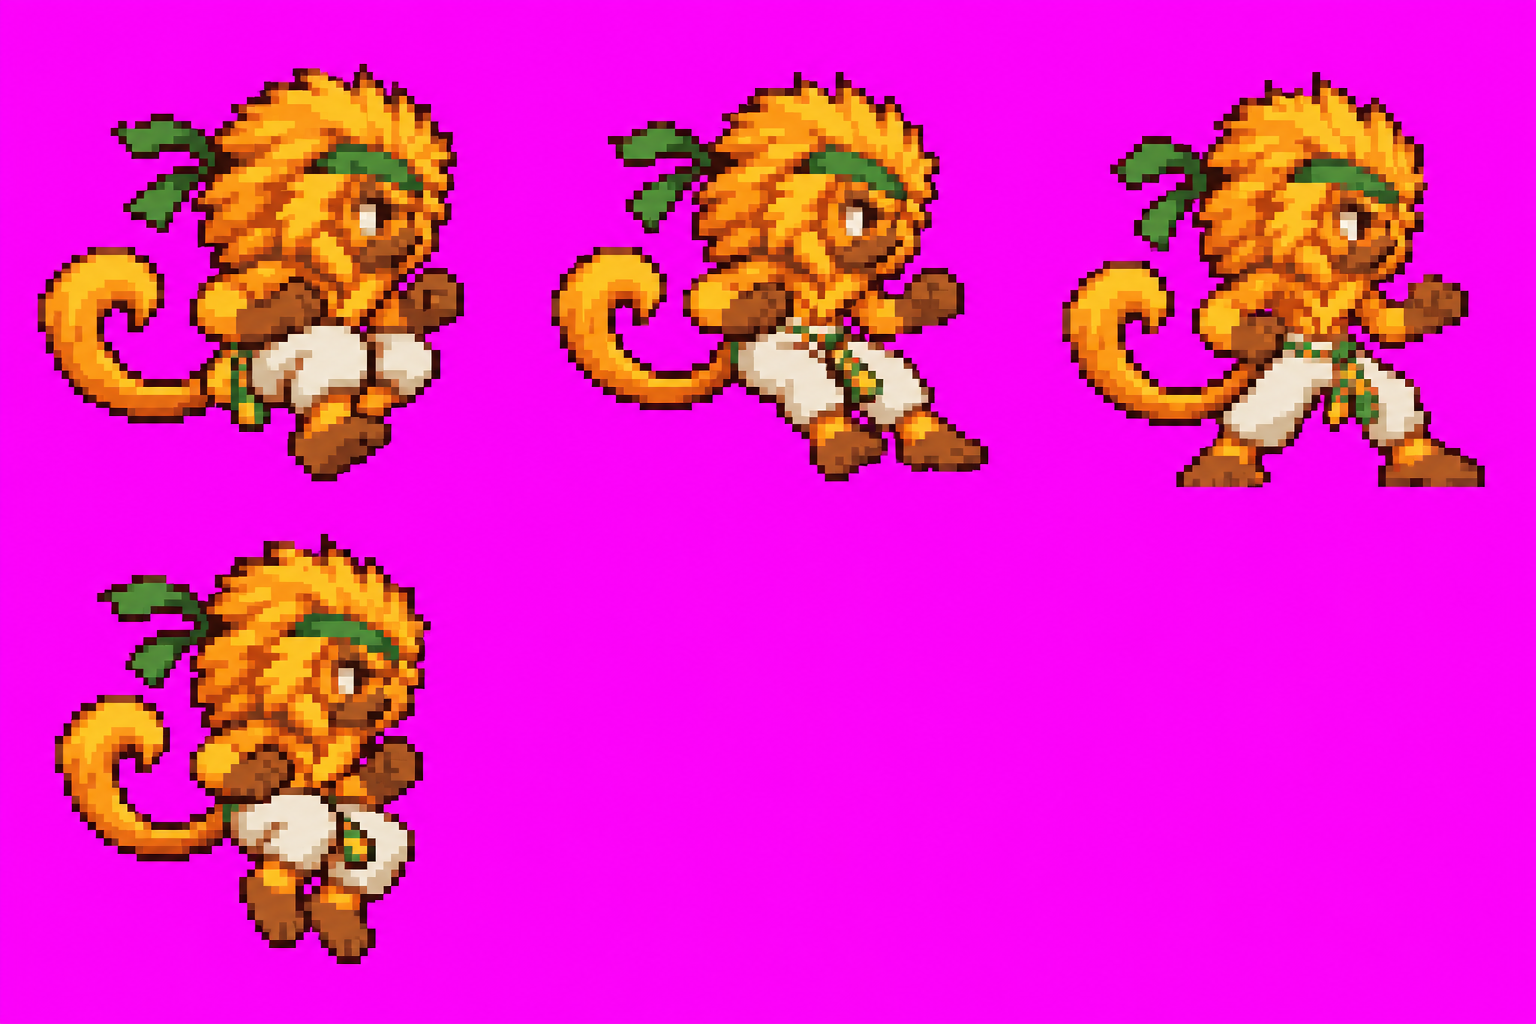
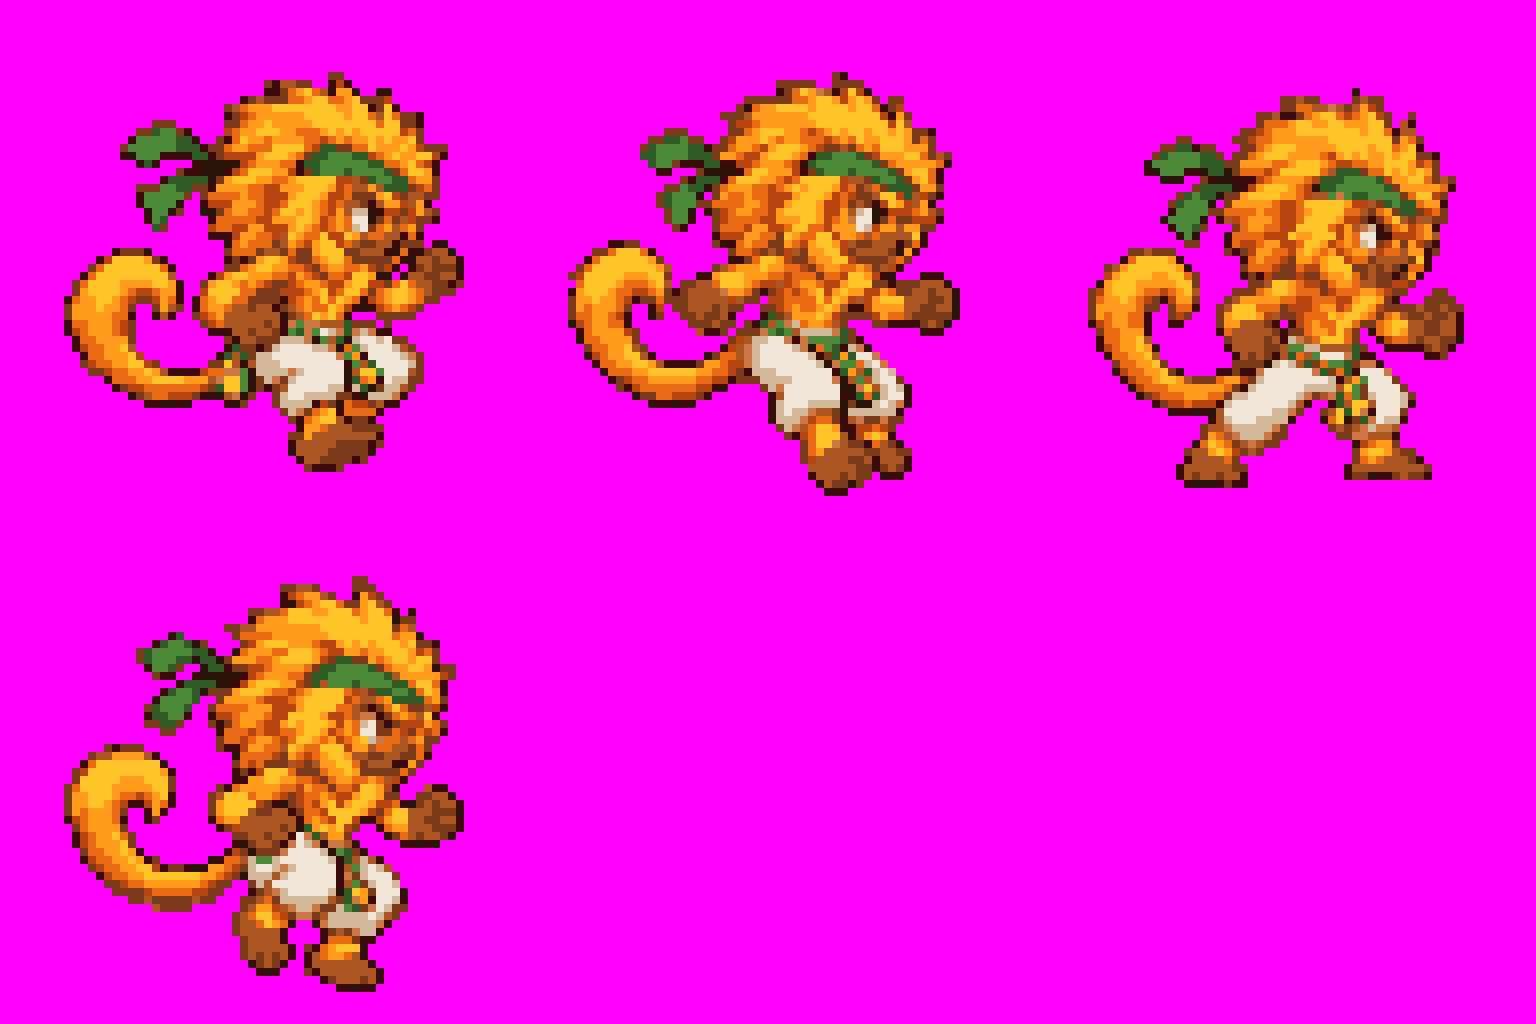
Add Juba fluency in-between sheets

diff --git a/art/prompts/pixel/fluidez.md b/art/prompts/pixel/fluidez.md
@@ -85,24 +85,7 @@ Quadros:
 
 **No jogo:** intermediários de `parado`, `andar`, `pulo`, `dor`, `aereo_tras`, `aereo_cima`, `especial_neutro`, `especial_lado`, `especial_baixo`, `borda` e `vitoria`, e as 4 transições (virar, arrancar, frear, pousar).
 
-**Pedir de novo:**
-
-| Arquivo | Problema |
-|---|---|
-| `correr_meio.png` | Veio com 4 quadros; precisa de **6** (é loop) |
-| `golpe_frente_meio.png`, `golpe_cima_meio.png`, `golpe_baixo_meio.png` | Juba desenhado **maior** que nos quadros originais (até 49% a mais) |
-| `aereo_neutro_meio.png`, `aereo_frente_meio.png`, `aereo_baixo_meio.png` | Juba **maior** que nos originais (18% a 26% a mais) |
-| `especial_cima_meio.png` | Juba **maior** que nos originais (35% a mais) |
-
-Mensagem para os de escala (anexe o sprite base e a folha original da animação):
-
-```text
-Refaça os quadros intermediários da folha "<ANIMACAO>" anexada. O problema da versão anterior: o Juba ficou MAIOR que nos quadros originais.
-Os intermediários têm que ter EXATAMENTE o mesmo tamanho dos quadros da folha anexada: a cabeça, a juba e o corpo com a mesma quantidade de pixels, como se fossem desenhados por cima de uma cópia do quadro anterior e só a pose mudasse.
-<QTD> quadros, em ordem, um por célula (entre o 1 e o 2, entre o 2 e o 3...). Mesmas regras: grade 3x2 de 1536x1024, quadros de 64x64 ampliados 8x, fundo magenta #FF00FF, perfil para a direita, pés na mesma linha da folha anexada.
-```
-
-O importador agora recusa sozinho folhas incompletas ou fora de escala (a animação continua com os quadros originais), então dá para mandar sem medo.
+**Refeitas e prontas para importar (15/10/2026):** `correr_meio.png` (6/6 quadros), `golpe_frente_meio.png`, `golpe_cima_meio.png`, `golpe_baixo_meio.png`, `aereo_neutro_meio.png`, `aereo_frente_meio.png`, `aereo_baixo_meio.png` (4/4 cada) e `especial_cima_meio.png` (5/5). As folhas seguem a grade 3x2 de 1536x1024, paleta do Juba e fundo magenta exato; conferidas em quantidade de quadros e tolerância de escala do importador.
 
 ### Seu Capivas
 
